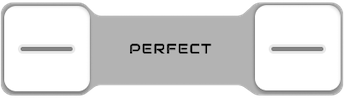
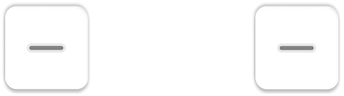
fix: tile, win lose bgs

diff --git a/src/game/scenes/Game.ts b/src/game/scenes/Game.ts
@@ -447,8 +447,8 @@ export default class Game extends Phaser.Scene {
           } else if (e.label === this.marbles[this.userMarbleIdx].label) {
             this.powerups.map((p) => (p.visible = false));
             this.startRhythmicGame();
+            powerup.destroy();
           }
-          powerup.destroy();
         });
       });
     }
@@ -576,22 +576,17 @@ export default class Game extends Phaser.Scene {
         }
         this.tapResultLabel?.destroy();
         this.tapResultLabel = this.add
-          .text(
-            this.cameras.main.width / 2,
-            this.cameras.main.height / 2,
-            resultText,
-            {
-              fontSize: `${42 * this.dpr}px`,
-              color:
-                resultText === "Perfect"
-                  ? "green"
-                  : resultText === "Great"
-                  ? "yellow"
-                  : "red",
-              stroke: "rgba(0,0,0,1)",
-              strokeThickness: 6,
-            }
-          )
+          .text(this.centerX, targetY + 100, resultText.toUpperCase(), {
+            fontSize: `${28 * this.dpr}px`,
+            color:
+              resultText === "Perfect"
+                ? "green"
+                : resultText === "Great"
+                ? "yellow"
+                : "red",
+            stroke: "rgba(0,0,0,1)",
+            strokeThickness: 6,
+          })
           .setDepth(101)
           .setScrollFactor(0);
         this.tapResultLabel?.setPosition(
